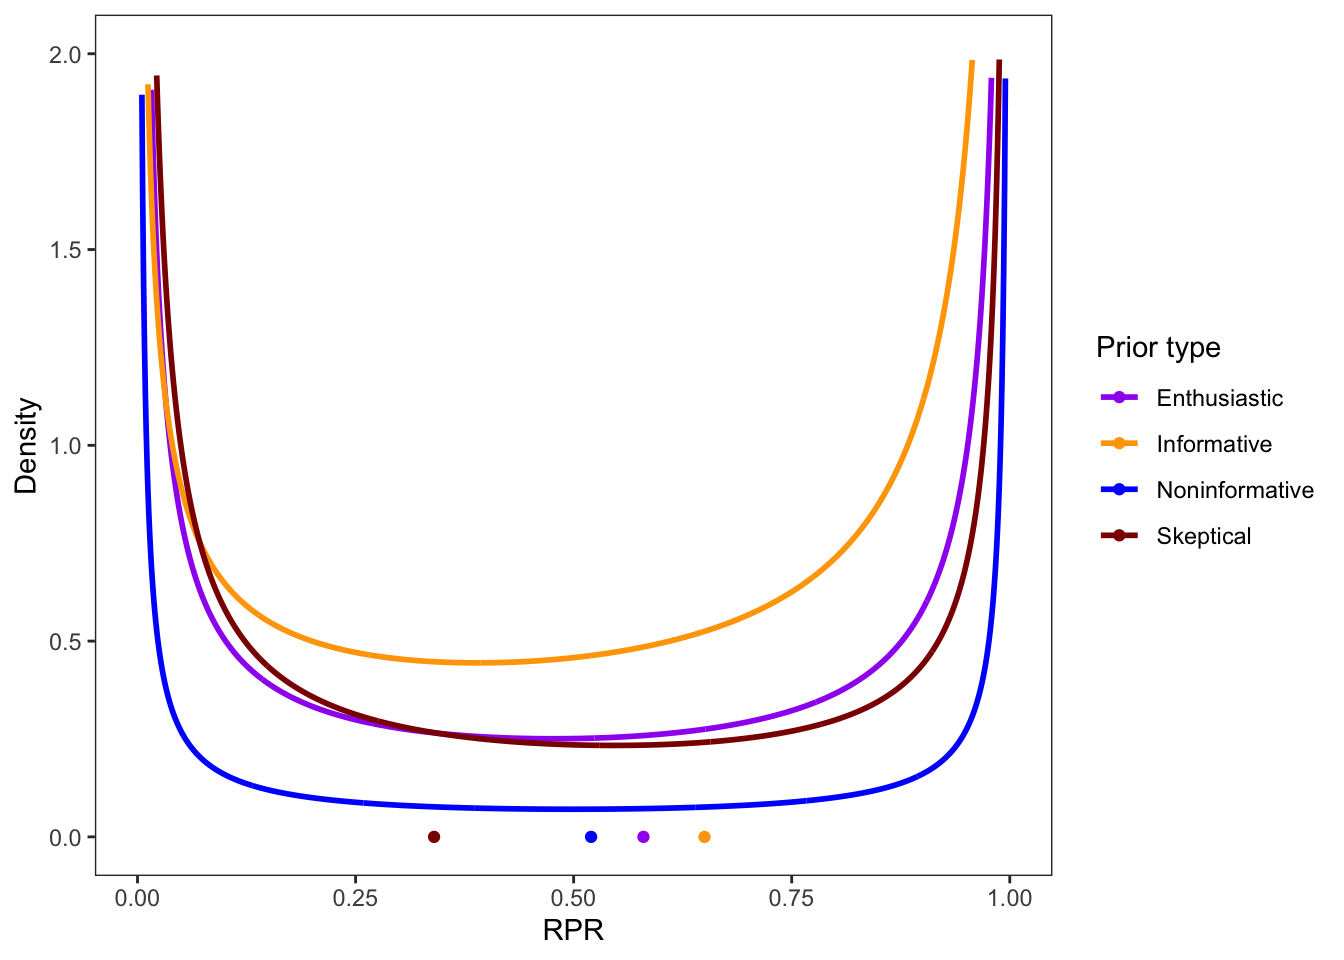
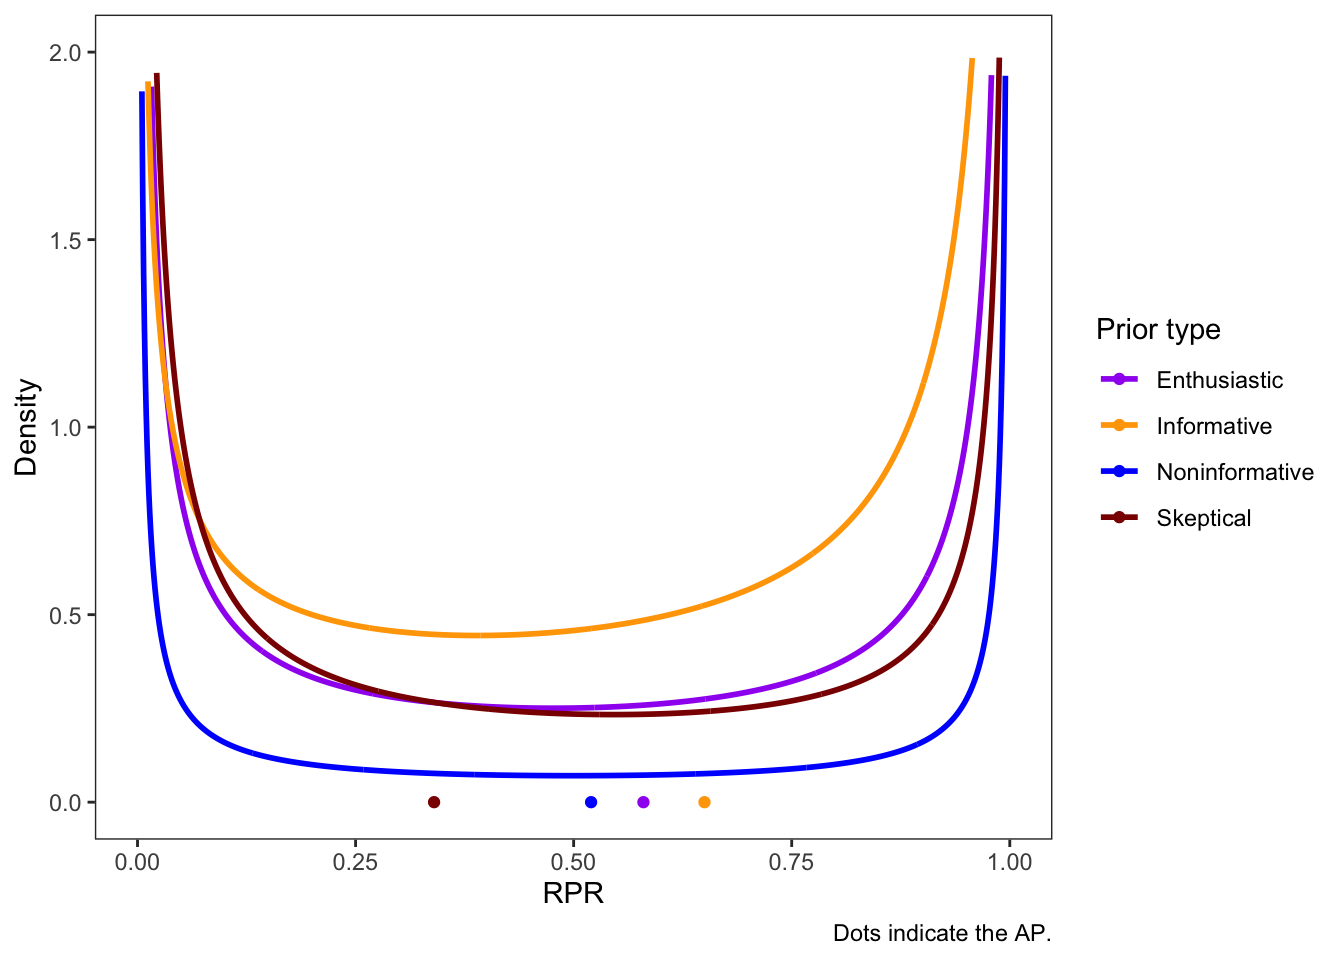
Changes

diff --git a/docs/two-arm-non-inferiority-setting.html b/docs/two-arm-non-inferiority-setting.html
@@ -23,7 +23,7 @@
 <meta name="author" content="André Moser, CTU Bern, University of Bern" />
 
 
-<meta name="date" content="2023-04-05" />
+<meta name="date" content="2023-04-06" />
 
   <meta name="viewport" content="width=device-width, initial-scale=1" />
   <meta name="apple-mobile-web-app-capable" content="yes" />
@@ -219,7 +219,7 @@ since under regularity conditions,
 <span class="math display">\[
 Z=\sqrt{\frac{n_1n_0}{n_0\sigma_1^2+n_1\sigma_0^2}}(D-\delta) \rightarrow^{\min(n_1,n_0) \rightarrow \infty} N(0,1).
 \]</span>
-<span class="math inline">\(P_{\delta}(D\leq D_{suc}^{\delta^*})\)</span> is the <strong>‘probability of rejection given <span class="math inline">\(\delta\)</span>’</strong>. Note that under a null value <span class="math inline">\(\delta_0\)</span>, <span class="math inline">\(P_{\delta_0}(D\leq D_{suc}^{\delta^*})\)</span> is the ‘type-I error’ and under an alternative value <span class="math inline">\(\delta_A\)</span> is the ‘frequentist power’. For an alternative value <span class="math inline">\(\delta_A\)</span> it holds that</p>
+<span class="math inline">\(P_{\delta}(D\leq D_{suc}^{\delta^*})\)</span> is the <strong>‘probability of rejection given <span class="math inline">\(\delta\)</span>’</strong>. Note that under a null value <span class="math inline">\(\delta=p1-p0\)</span>, <span class="math inline">\(P_{\delta_0}(D\leq D_{suc}^{\delta^*})=\alpha\)</span> is the ‘type-I error’ and under an alternative value <span class="math inline">\(\delta_A\)</span> is the ‘frequentist power’ <span class="math inline">\(P_{\delta_A}(D\leq D_{suc}^{\delta^*})=1-\beta\)</span>. For an alternative value <span class="math inline">\(\delta_A\)</span> it holds that</p>
 <p><span class="math display">\[
 -z_{1-\alpha}-\sqrt{\frac{n_1n_0}{n_0\sigma_1^2+n_1\sigma_0^2}}(\delta_A-\delta^*)=\Phi^{-1}(1-\beta)=z_{1-\beta}
 \]</span>
@@ -354,7 +354,7 @@ see for example <span class="citation">[<a href="#ref-Grieve2022" role="doc-bibl
 ## 4      Skeptical 99.93031 99.93031 0.34</code></pre>
 <p>Under an ‘enthusiastic prior’ we get an average power of 58%. This is substantially lower than the frequentist power of 80% (which holds under the alternative hypothesis).</p>
 <hr />
-<p>Rufibach et al. give a closed a formula for the distribution of <span class="math inline">\(RPR:=P_\Delta(D\leq D_{suc})\)</span>, where <span class="math inline">\(\Delta \sim N(d,\tilde\sigma^2/m)\)</span>, and discuss the shape under different prior choices <span class="citation">[<a href="#ref-Rufibach2016" role="doc-biblioref">6</a>]</span>. In the following we use the wording ’random probability to reject` (RPR) similar to <span class="citation">[<a href="#ref-Kunzmann2022" role="doc-biblioref">1</a>]</span>.</p>
+<p>Rufibach et al. give a closed a formula for the distribution of <span class="math inline">\(RPR:=P_\Delta(D\leq D_{suc}^{\delta^*})\)</span>, where <span class="math inline">\(\Delta \sim N(d,\tilde\sigma^2/m)\)</span>, and discuss the shape under different prior choices <span class="citation">[<a href="#ref-Rufibach2016" role="doc-biblioref">6</a>]</span>. In the following we use the wording ’random probability to reject` (RPR) similar to <span class="citation">[<a href="#ref-Kunzmann2022" role="doc-biblioref">1</a>]</span>.</p>
 <p>The random variable <span class="math inline">\(RPR\)</span> has a probability density function
 <span class="math display">\[
 \begin{aligned}
@@ -402,7 +402,7 @@ see <span class="citation">[<a href="#ref-Rufibach2016" role="doc-biblioref">6</
 <span id="cb9-35"><a href="two-arm-non-inferiority-setting.html#cb9-35" aria-hidden="true" tabindex="-1"></a></span>
 <span id="cb9-36"><a href="two-arm-non-inferiority-setting.html#cb9-36" aria-hidden="true" tabindex="-1"></a>data_output2 <span class="ot">&lt;-</span> data_output <span class="sc">%&gt;%</span> <span class="fu">select</span>(type, <span class="at">x=</span>AP) <span class="sc">%&gt;%</span> <span class="fu">mutate</span>(<span class="at">y=</span><span class="dv">0</span>)</span>
 <span id="cb9-37"><a href="two-arm-non-inferiority-setting.html#cb9-37" aria-hidden="true" tabindex="-1"></a></span>
-<span id="cb9-38"><a href="two-arm-non-inferiority-setting.html#cb9-38" aria-hidden="true" tabindex="-1"></a><span class="fu">ggplot</span>(data_power, <span class="fu">aes</span>(x, y, <span class="at">colour=</span>type))<span class="sc">+</span><span class="fu">geom_line</span>(<span class="at">linewidth=</span><span class="dv">1</span>)<span class="sc">+</span><span class="fu">geom_point</span>(<span class="at">data=</span>data_output2, <span class="fu">aes</span>(<span class="at">x=</span>x, <span class="at">y=</span>y, <span class="at">colour=</span>type))<span class="sc">+</span><span class="fu">scale_colour_manual</span>(<span class="st">&quot;Prior type&quot;</span>, <span class="at">values=</span><span class="fu">c</span>(<span class="st">&quot;purple&quot;</span>, <span class="st">&quot;orange&quot;</span>, <span class="st">&quot;blue&quot;</span>, <span class="st">&quot;darkred&quot;</span>))<span class="sc">+</span><span class="fu">theme_bw</span>()<span class="sc">+</span><span class="fu">theme</span>(<span class="at">panel.grid =</span> <span class="fu">element_blank</span>())<span class="sc">+</span><span class="fu">ylab</span>(<span class="st">&quot;Density&quot;</span>)<span class="sc">+</span><span class="fu">xlab</span>(<span class="st">&quot;RPR&quot;</span>)<span class="sc">+</span><span class="fu">ylim</span>(<span class="fu">c</span>(<span class="dv">0</span>,<span class="dv">2</span>))</span></code></pre></div>
+<span id="cb9-38"><a href="two-arm-non-inferiority-setting.html#cb9-38" aria-hidden="true" tabindex="-1"></a><span class="fu">ggplot</span>(data_power, <span class="fu">aes</span>(x, y, <span class="at">colour=</span>type))<span class="sc">+</span><span class="fu">geom_line</span>(<span class="at">linewidth=</span><span class="dv">1</span>)<span class="sc">+</span><span class="fu">geom_point</span>(<span class="at">data=</span>data_output2, <span class="fu">aes</span>(<span class="at">x=</span>x, <span class="at">y=</span>y, <span class="at">colour=</span>type))<span class="sc">+</span><span class="fu">scale_colour_manual</span>(<span class="st">&quot;Prior type&quot;</span>, <span class="at">values=</span><span class="fu">c</span>(<span class="st">&quot;purple&quot;</span>, <span class="st">&quot;orange&quot;</span>, <span class="st">&quot;blue&quot;</span>, <span class="st">&quot;darkred&quot;</span>))<span class="sc">+</span><span class="fu">theme_bw</span>()<span class="sc">+</span><span class="fu">theme</span>(<span class="at">panel.grid =</span> <span class="fu">element_blank</span>())<span class="sc">+</span><span class="fu">ylab</span>(<span class="st">&quot;Density&quot;</span>)<span class="sc">+</span><span class="fu">xlab</span>(<span class="st">&quot;RPR&quot;</span>)<span class="sc">+</span><span class="fu">ylim</span>(<span class="fu">c</span>(<span class="dv">0</span>,<span class="dv">2</span>))<span class="sc">+</span><span class="fu">labs</span>(<span class="at">caption=</span><span class="st">&quot;Dots indicate the AP.&quot;</span>)</span></code></pre></div>
 <p><img src="_main_files/figure-html/unnamed-chunk-6-1.png" width="672" /></p>
 <hr />
 <p>From the above formula one can derive probability statements as <span class="math inline">\(P(RPR&gt;\gamma)\)</span>, say <span class="math inline">\(\gamma=0.8\)</span>, from</p>
@@ -412,13 +412,13 @@ P(RPR&gt;\gamma)&amp;=\Phi\left(-z_{1-\alpha}\frac{\sqrt{mn_0\sigma_1^2+mn_1\sig
 \end{aligned}
 \]</span></p>
 <p><img src="_main_files/figure-html/unnamed-chunk-7-1.png" width="672" /></p>
-<p>AP integrates over whole <span class="math inline">\(\delta\)</span> range, including ‘non-favorable’
+<p>AP integrates over whole <span class="math inline">\(\delta\)</span> range, including ‘non-favorable’ regions.
 <span class="math display">\[
-AP=\overbrace{P(D\leq D_{suc}, \Delta&gt;\delta^*)}^{(1)}+\overbrace{P(D\leq D_{suc}, 0&lt;\Delta\leq\delta^*)}^{(2)} \\
-+\overbrace{P(D\leq D_{suc}, \Delta\leq0)}^{(3)}
+AP=\overbrace{P(D\leq D_{suc}^{\delta^*}, \Delta&gt;\delta^*)}^{(1)}+\overbrace{P(D\leq D_{suc}^{\delta^*}, 0&lt;\Delta\leq\delta^*)}^{(2)} \\
++\overbrace{P(D\leq D_{suc}^{\delta^*}, \Delta\leq0)}^{(3)}
 \]</span>
 AP=(1) Probability of Type-I error + (2) ‘Non-inferior, but treatment effect not relevant’ + (3) ‘Non-inferior, treatment effect relevant’
-<span class="math inline">\(AP \approx P(D\leq D_{suc}}, \Delta\leq0)\)</span> (see <span class="citation">[<a href="#ref-Spiegelhalter2003" role="doc-biblioref">2</a>]</span>), pharma (favors AP, shortterm) vs regulators (favors the other, longterm), see discussion in Kunzmann et al.</p>
+<span class="math inline">\(AP \approx P(D\leq D_{suc}^{\delta^*}}, \Delta\leq0)\)</span> (see <span class="citation">[<a href="#ref-Spiegelhalter2003" role="doc-biblioref">2</a>]</span>), pharma (favors AP, shortterm) vs regulators (favors the other, longterm), see discussion in Kunzmann et al.</p>
 <p>Under enthusiastic prior:</p>
 <p><img src="_main_files/figure-html/unnamed-chunk-8-1.png" width="672" /></p>
 <pre><code>##              region   prop
@@ -427,17 +427,17 @@ AP=(1) Probability of Type-I error + (2) ‘Non-inferior, but treatment effect n
 ## 3               (2) 0.0964
 ## 4               (1) 0.0017</code></pre>
 <p><span class="math display">\[
-AP=\overbrace{P(Z\leq - z_{1-\alpha}, \Delta&gt;\delta^*)}^{(1)}+\overbrace{P(Z\leq - z_{1-\alpha}, 0&lt;\Delta\leq\delta^*)}^{(2)} \\
-+\overbrace{P(Z\leq - z_{1-\alpha}, \Delta\leq0)}^{(3)}
+AP=\overbrace{P(D\leq D_{suc}^{\delta^*}, \Delta&gt;\delta^*)}^{(1)}+\overbrace{P(D\leq D_{suc}^{\delta^*}, 0&lt;\Delta\leq\delta^*)}^{(2)} \\
++\overbrace{P(D\leq D_{suc}^{\delta^*}, \Delta\leq0)}^{(3)}
 \]</span>
 For our noninferiority setting consider (2)+(3).</p>
 <p><span class="math display">\[
-P(Z\leq - z_{1-\alpha}, \Delta\leq\delta^*)=P(Z\leq - z_{1-\alpha}|\Delta\leq\delta^*)P(\Delta\leq\delta^*)\\=\underbrace{E\left[P_{\Delta\leq\delta^*}(Z\leq - z_{1-\alpha})\right]}_{EP}P(\Delta\leq\delta^*),
+P(D\leq D_{suc}^{\delta^*}, \Delta\leq\delta^*)=P(D\leq D_{suc}^{\delta^*}|\Delta\leq\delta^*)P(\Delta\leq\delta^*)\\=\underbrace{E\left[P_{\Delta\leq\delta^*}(D\leq D_{suc}^{\delta^*})\right]}_{EP}P(\Delta\leq\delta^*),
 \]</span>
 where <span class="math inline">\(EP\)</span> is <strong>‘expected power’</strong> (Kunzmann et al.).</p>
 <p>Spiegelhalter calls <span class="math inline">\(P(Z\leq - z_{1-\alpha}, \Delta\leq\delta^*)\)</span> the <strong>‘prior adjusted power’</strong> (PAP):</p>
 <p><span class="math display">\[
-\underbrace{P(Z\leq - z_{1-\alpha}, \Delta\leq\delta^*)}_{PAP}=\underbrace{E\left[P_{\Delta\leq\delta^*}(Z\leq - z_{1-\alpha})\right]}_{EP}\underbrace{P(\Delta\leq\delta^*)}_{constant}
+\underbrace{P(D\leq D_{suc}^{\delta^*}, \Delta\leq\delta^*)}_{PAP}=\underbrace{E\left[P_{\Delta\leq\delta^*}(D\leq D_{suc}^{\delta^*})\right]}_{EP}\underbrace{P(\Delta\leq\delta^*)}_{constant}
 \]</span></p>
 <p>Noninferiority setting <span class="math inline">\(\Delta\leq\delta^*\)</span>:</p>
 <pre><code>##       ep    pap     ap  const           type
@@ -448,19 +448,39 @@ where <span class="math inline">\(EP\)</span> is <strong>‘expected power’</s
 </div>
 <div id="proper-bayesian-approach" class="section level3 hasAnchor" number="2.1.3">
 <h3><span class="header-section-number">2.1.3</span> Proper Bayesian approach<a href="two-arm-non-inferiority-setting.html#proper-bayesian-approach" class="anchor-section" aria-label="Anchor link to header"></a></h3>
-<p>Uses posterior distribution to define ‘Bayesian significance’: <span class="math inline">\(S^B:=P(\Delta\leq\delta^*|data)=1-\epsilon\)</span>, (not <span class="math inline">\(\alpha\)</span>)
-- Remember <span class="math inline">\(D=\overline{Y}_{1}-\overline{Y}_{0}\)</span> with <span class="math inline">\(D \sim N(\delta, \frac{\tilde\sigma^2}{n})\)</span>, where <span class="math inline">\(\tilde\sigma^2=\sigma_1^2+\sigma_1^2\)</span>
-Suppose that <span class="math inline">\(\Delta \sim N(d, \tilde\sigma^2/n_0)\)</span> then the posterior distribution given <span class="math inline">\(D\)</span> is distributed as <span class="math inline">\(\Delta|D \sim N\left(\frac{n_0d+nD}{n_0+n}, \frac{\tilde\sigma^2}{n_0+n}\right)\)</span>. We are interested in</p>
-<ul>
-<li><span class="math inline">\(P(S^B|\delta)=\Phi\left(-\sqrt{\frac{n_0+n}{n}}z_{1-\epsilon}-\frac{\sqrt{n}}{\tilde\sigma}\left[\delta-\frac{n_0+n}{n}\delta^*+\frac{n_0}{n}d\right]\right)\)</span></li>
-<li><span class="math inline">\(P(S^{F}|\delta)=\Phi\left(-z_{1-\alpha}-\frac{\sqrt{n}}{\tilde\sigma}(\delta-\delta^*)\right)\)</span></li>
-</ul>
+<p>A proper Bayesian approach ises posterior distribution to define ‘Bayesian significance’: <span class="math inline">\(S^B:=P(\Delta\leq\delta^*|data)=1-\epsilon\)</span>, (not <span class="math inline">\(\alpha\)</span>)
+Remember <span class="math inline">\(D=p_1-p_0\)</span> with <span class="math inline">\(D \sim N(\delta, \frac{\sigma_1^2}{n_1}+\frac{\sigma_0^2}{n_0})\)</span>. Suppose that <span class="math inline">\(\Delta \sim N(d, \tilde\sigma^2/n_0)\)</span> then the posterior distribution given <span class="math inline">\(D\)</span> is distributed as
+<span class="math display">\[
+\Delta|D \sim N\left(\frac{\frac{n_1n_0}{n_0\sigma_1^2+n_1\sigma_0^2}\delta+\frac{m}{\sigma_1^2+\sigma_0^2}D}{\frac{n_1n_0}{n_0\sigma_1^2+n_1\sigma_0^2}+\frac{m}{\sigma_1^2+\sigma_0^2}}, \frac{1}{\frac{n_1n_0}{n_0\sigma_1^2+n_1\sigma_0^2}+\frac{m}{\sigma_1^2+\sigma_0^2}}\right)
+\]</span>
+For the case that <span class="math inline">\(n_0=n_1=n\)</span> and <span class="math inline">\(\sigma_1^2=\sigma_0^2=\sigma_^2\)</span> this reduces to</p>
+<p><span class="math display">\[
+\Delta|D \sim N\left(\frac{n\delta+md}{n+m}, \frac{2\sigma^2}{n+m} \right)
+\]</span>
+Bases on the above specified ‘Bayesian significance’ we are interested whether the upper <span class="math inline">\((1-\epsilon)\)</span> credible interval is smaller than the non-inferiority margin, that is</p>
+<p><span class="math display">\[
+\frac{\frac{n_1n_0}{n_0\sigma_1^2+n_1\sigma_0^2}D+\frac{m}{\sigma_1^2+\sigma_0^2}d}{\frac{n_1n_0}{n_0\sigma_1^2+n_1\sigma_0^2}+\frac{m}{\sigma_1^2+\sigma_0^2}}+z_{1-\epsilon}\frac{1}{\sqrt{\frac{n_1n_0}{n_0\sigma_1^2+n_1\sigma_0^2}+\frac{m}{\sigma_1^2+\sigma_0^2}}}\leq \delta^*.
+\]</span>
+Simple algebra yields to</p>
+<p><span class="math display">\[
+\begin{aligned}
+D\leq -z_{1-\epsilon}&amp;\sqrt{\frac{n_1n_0}{n_0\sigma_1^2+n_1\sigma_0^2}+\frac{m}{\sigma_1^2+\sigma_0^2}}\frac{n_0\sigma_1^2+n_1\sigma_0^2}{n_1n_0}+ \\&amp;\delta^*\left(1+\frac{m(n_0\sigma_1^2+n_1\sigma_0^2)}{n_1n_0(\sigma_1^2+\sigma_0^2)}\right)-\frac{m(n_0\sigma_1^2+n_1\sigma_0^2)}{n_1n_0(\sigma_1^2+\sigma_0^2)}d
+\end{aligned}
+\]</span>
+Thus
+<span class="math display">\[
+\begin{aligned}
+P(S^B|\delta)&amp;=\Phi\left(-z_{1-\epsilon}\left\{\sqrt{1+\frac{m(n_0\sigma_1^2+n_1\sigma_0^2)}{n_1n_0(\sigma_1^2+\sigma_0^2)}}\right\}- \right. \\
+&amp;\left. \frac{m\sqrt{n_0\sigma_1^2+n_1\sigma_0^2}}{\sqrt{n_1n_0}(\sigma_1^2+\sigma_0^2)}d-\sqrt{\frac{n_1n_0}{n_0\sigma_1^2+n_1\sigma_0^2}}\left\{\delta-\delta^*\left[1+\frac{m(n_0\sigma_1^2+n_1\sigma_0^2)}{n_1n_0(\sigma_1^2+\sigma_0^2)} \right]\right\} \right)
+\end{aligned}
+\]</span>
+- <span class="math inline">\(P(S^{F}|\delta)=\Phi\left(-z_{1-\alpha}-\frac{\sqrt{n}}{\tilde\sigma}(\delta-\delta^*)\right)\)</span></p>
 <p><img src="_main_files/figure-html/unnamed-chunk-10-1.png" width="672" /></p>
 <pre><code>##   delta    y                type
-## 1 0.000 0.83 Bayes: Enthusiastic
-## 2 0.035 0.06 Bayes: Enthusiastic
-## 3 0.000 0.78    Bayes: Skeptical
-## 4 0.035 0.04    Bayes: Skeptical
+## 1 0.000 0.22 Bayes: Enthusiastic
+## 2 0.035 0.05 Bayes: Enthusiastic
+## 3 0.000 0.21    Bayes: Skeptical
+## 4 0.035 0.05    Bayes: Skeptical
 ## 5 0.000 0.80         Frequentist
 ## 6 0.035 0.05         Frequentist</code></pre>
 <ul>

diff --git a/docs/index.html b/docs/index.html
@@ -23,7 +23,7 @@
 <meta name="author" content="André Moser, CTU Bern, University of Bern" />
 
 
-<meta name="date" content="2023-04-05" />
+<meta name="date" content="2023-04-06" />
 
   <meta name="viewport" content="width=device-width, initial-scale=1" />
   <meta name="apple-mobile-web-app-capable" content="yes" />
@@ -192,7 +192,7 @@ div.csl-indent {
 <div id="header">
 <h1 class="title">Frequentist, Bayesian and hybrid approaches for sample size and power calculations</h1>
 <p class="author"><em>André Moser, CTU Bern, University of Bern</em></p>
-<p class="date"><em>2023-04-05</em></p>
+<p class="date"><em>2023-04-06</em></p>
 </div>
 <div id="background" class="section level1 hasAnchor" number="1">
 <h1><span class="header-section-number">Chapter 1</span> Background<a href="index.html#background" class="anchor-section" aria-label="Anchor link to header"></a></h1>

diff --git a/docs/404.html b/docs/404.html
@@ -23,7 +23,7 @@
 <meta name="author" content="André Moser, CTU Bern, University of Bern" />
 
 
-<meta name="date" content="2023-04-05" />
+<meta name="date" content="2023-04-06" />
 
   <meta name="viewport" content="width=device-width, initial-scale=1" />
   <meta name="apple-mobile-web-app-capable" content="yes" />

diff --git a/docs/references.html b/docs/references.html
@@ -23,7 +23,7 @@
 <meta name="author" content="André Moser, CTU Bern, University of Bern" />
 
 
-<meta name="date" content="2023-04-05" />
+<meta name="date" content="2023-04-06" />
 
   <meta name="viewport" content="width=device-width, initial-scale=1" />
   <meta name="apple-mobile-web-app-capable" content="yes" />
